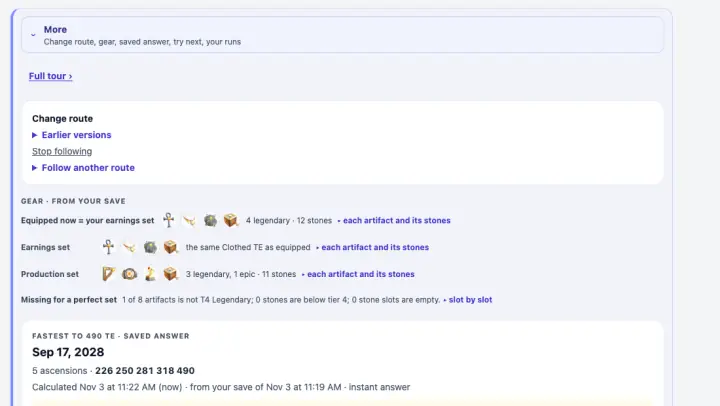
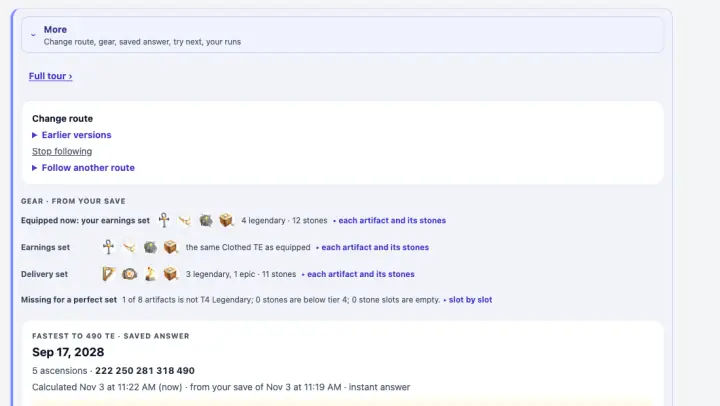
tour pictures: re-shoot for Words' copy edit (Delivery set, Equipped now:, Exact on Fastest to 490, Setup button text)
61-r2 gear sets, 62-r3 try next (desk and phone), 6-goal-target and 9-filters-desk-mag (the Setup button's new text), 60-r1 and 64-r5 re-shot with their groups. On a phone the wrapped Setup button no longer fits with Target TE's switch in one crop, so the filters slide has its own picture there (9-filters-base-phone); the two specs say so.

Changed region(s): [[0.0917, 0.5025, 0.6417, 0.5616], [0.0306, 0.6502, 0.1222, 0.6798]]

diff --git a/wasmegg/ascension-planner/src/lib/tourSlides.spec.ts b/wasmegg/ascension-planner/src/lib/tourSlides.spec.ts
@@ -64,7 +64,9 @@ describe('tour slides', () => {
     expect(sharesPicture(by('tabManual'), by('tabAuto'))).toBe(false);
     // A sub-tab slide shows that sub-tab SELECTED (17 Nov 2026, Jordan): By a date is its own picture, Target TE's is the filters slide's.
     expect(sharesPicture(by('goalTarget'), by('goalDate'))).toBe(false);
-    expect(sharesPicture(by('goalTarget'), by('filters'))).toBe(true);
+    // The filters slide shares Target TE's picture on a desk; on a phone the wrapped Setup button needs its own (so, as a pair, no).
+    expect(by('goalTarget').desk.src).toBe(by('filters').desk.src);
+    expect(by('goalTarget').phone.src).not.toBe(by('filters').phone.src);
     expect(sharesPicture(by('tabMyruns'), by('myrunsPage'))).toBe(true);
     expect(sharesPicture(by('load'), by('goalTarget'))).toBe(false);
     expect(sharesPicture(null, by('tabAuto'))).toBe(false);

diff --git a/wasmegg/ascension-planner/src/lib/tourRings.spec.ts b/wasmegg/ascension-planner/src/lib/tourRings.spec.ts
@@ -128,7 +128,10 @@ describe('tour picture overlays (v4)', () => {
     for (const f of ['desk', 'phone']) {
       expect(base('goalDate', f), f).toBeTruthy();
       expect(base('goalDate', f), f).not.toBe(base('goalTarget', f));
-      expect(base('filters', f), f).toBe(base('goalTarget', f));
+      // Desk: the filters slide shares Target TE's picture. Phone (17 Nov 2026, Words' long Setup button text wraps to two lines at
+      // 390 px): the switch and the button no longer fit one 440 px crop, so the filters slide has its own picture, 9-filters-base-phone.
+      if (f === 'desk') expect(base('filters', f), f).toBe(base('goalTarget', f));
+      else expect(base('filters', f), f).toBe('9-filters-base-phone');
       expect(base('full-tabInsights', f), f).not.toBe(base('full-tabLeaderboard', f));
     }
   });
